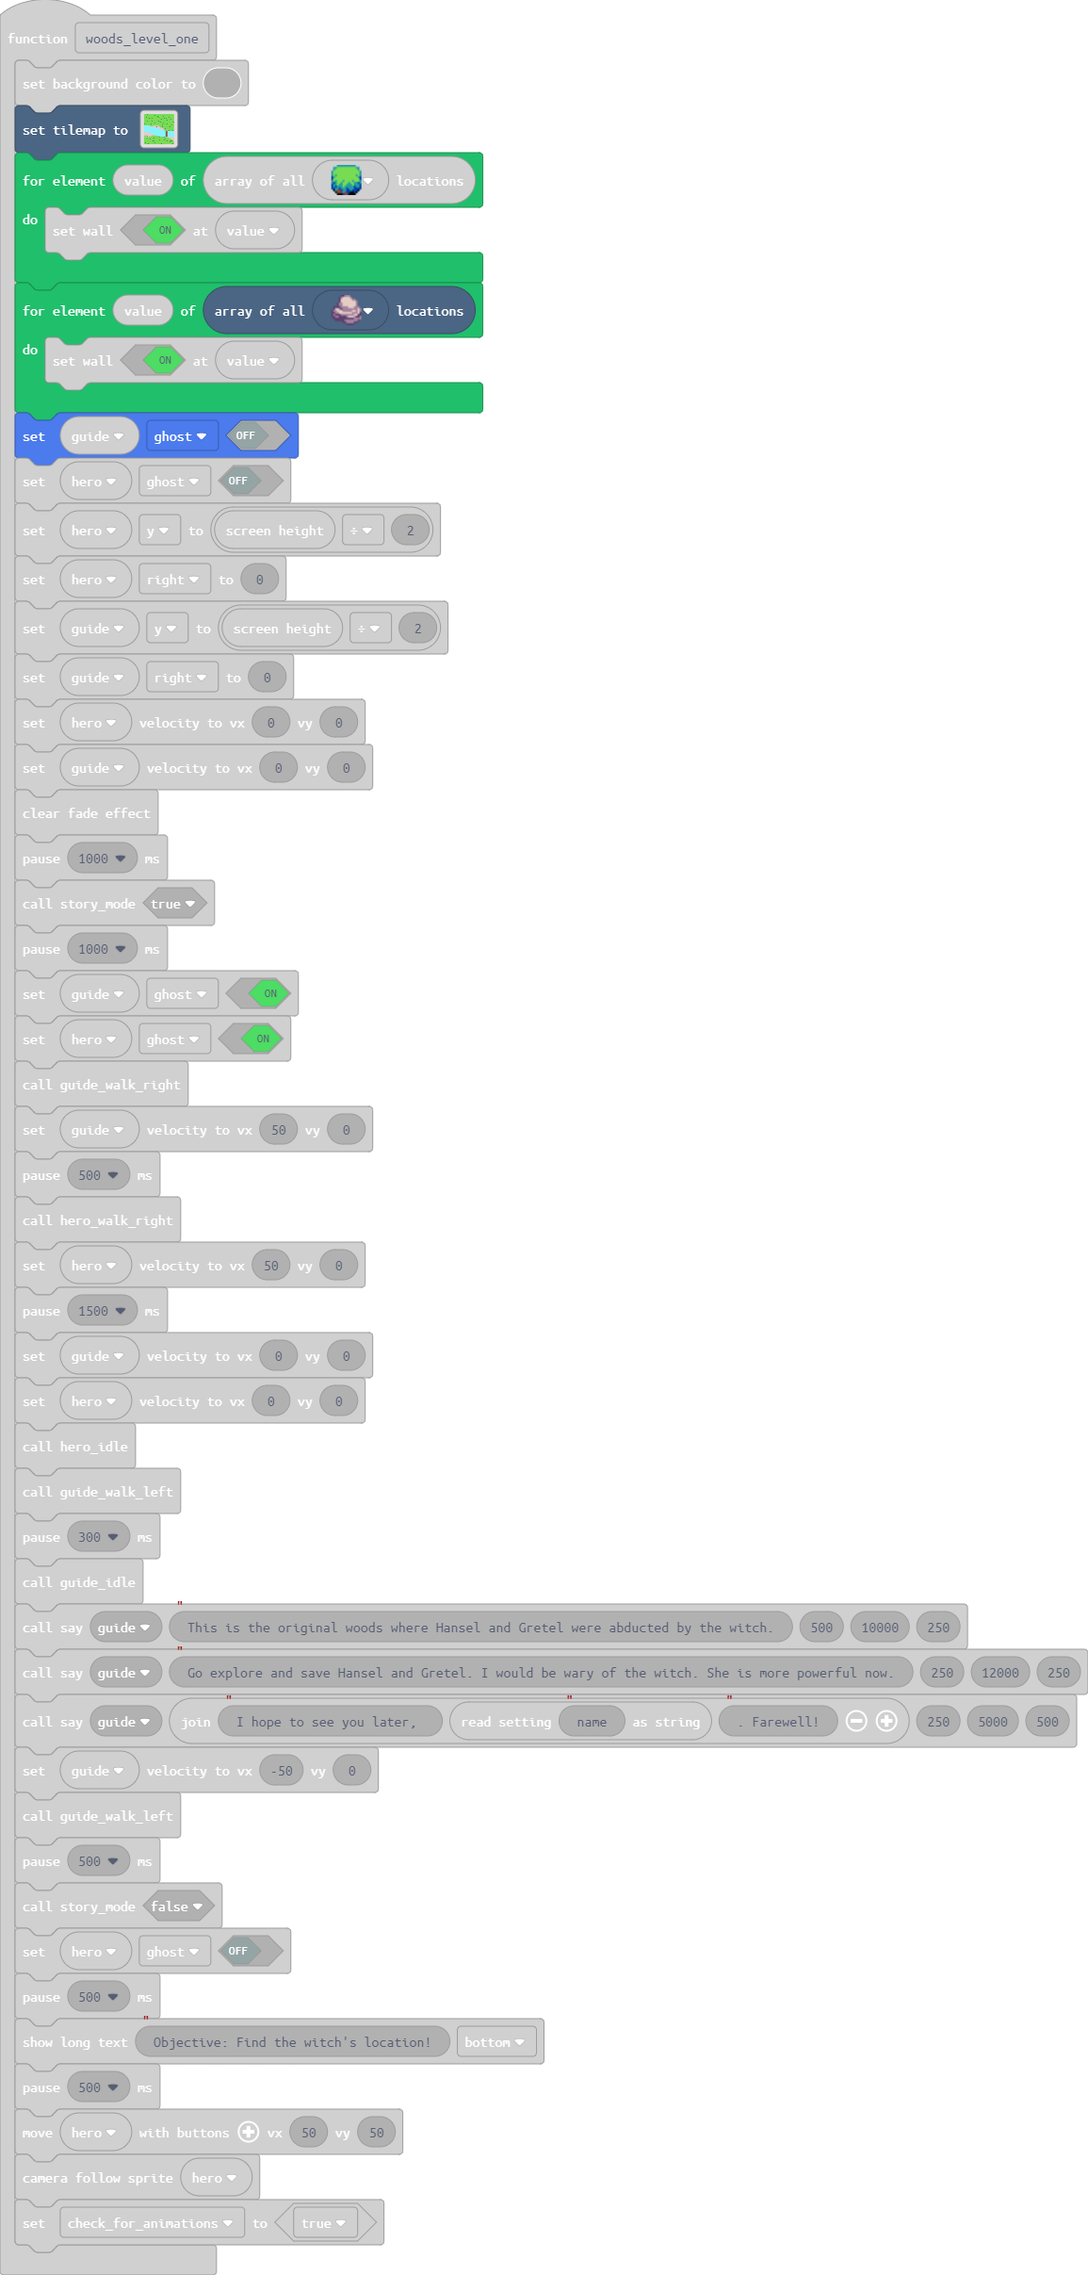
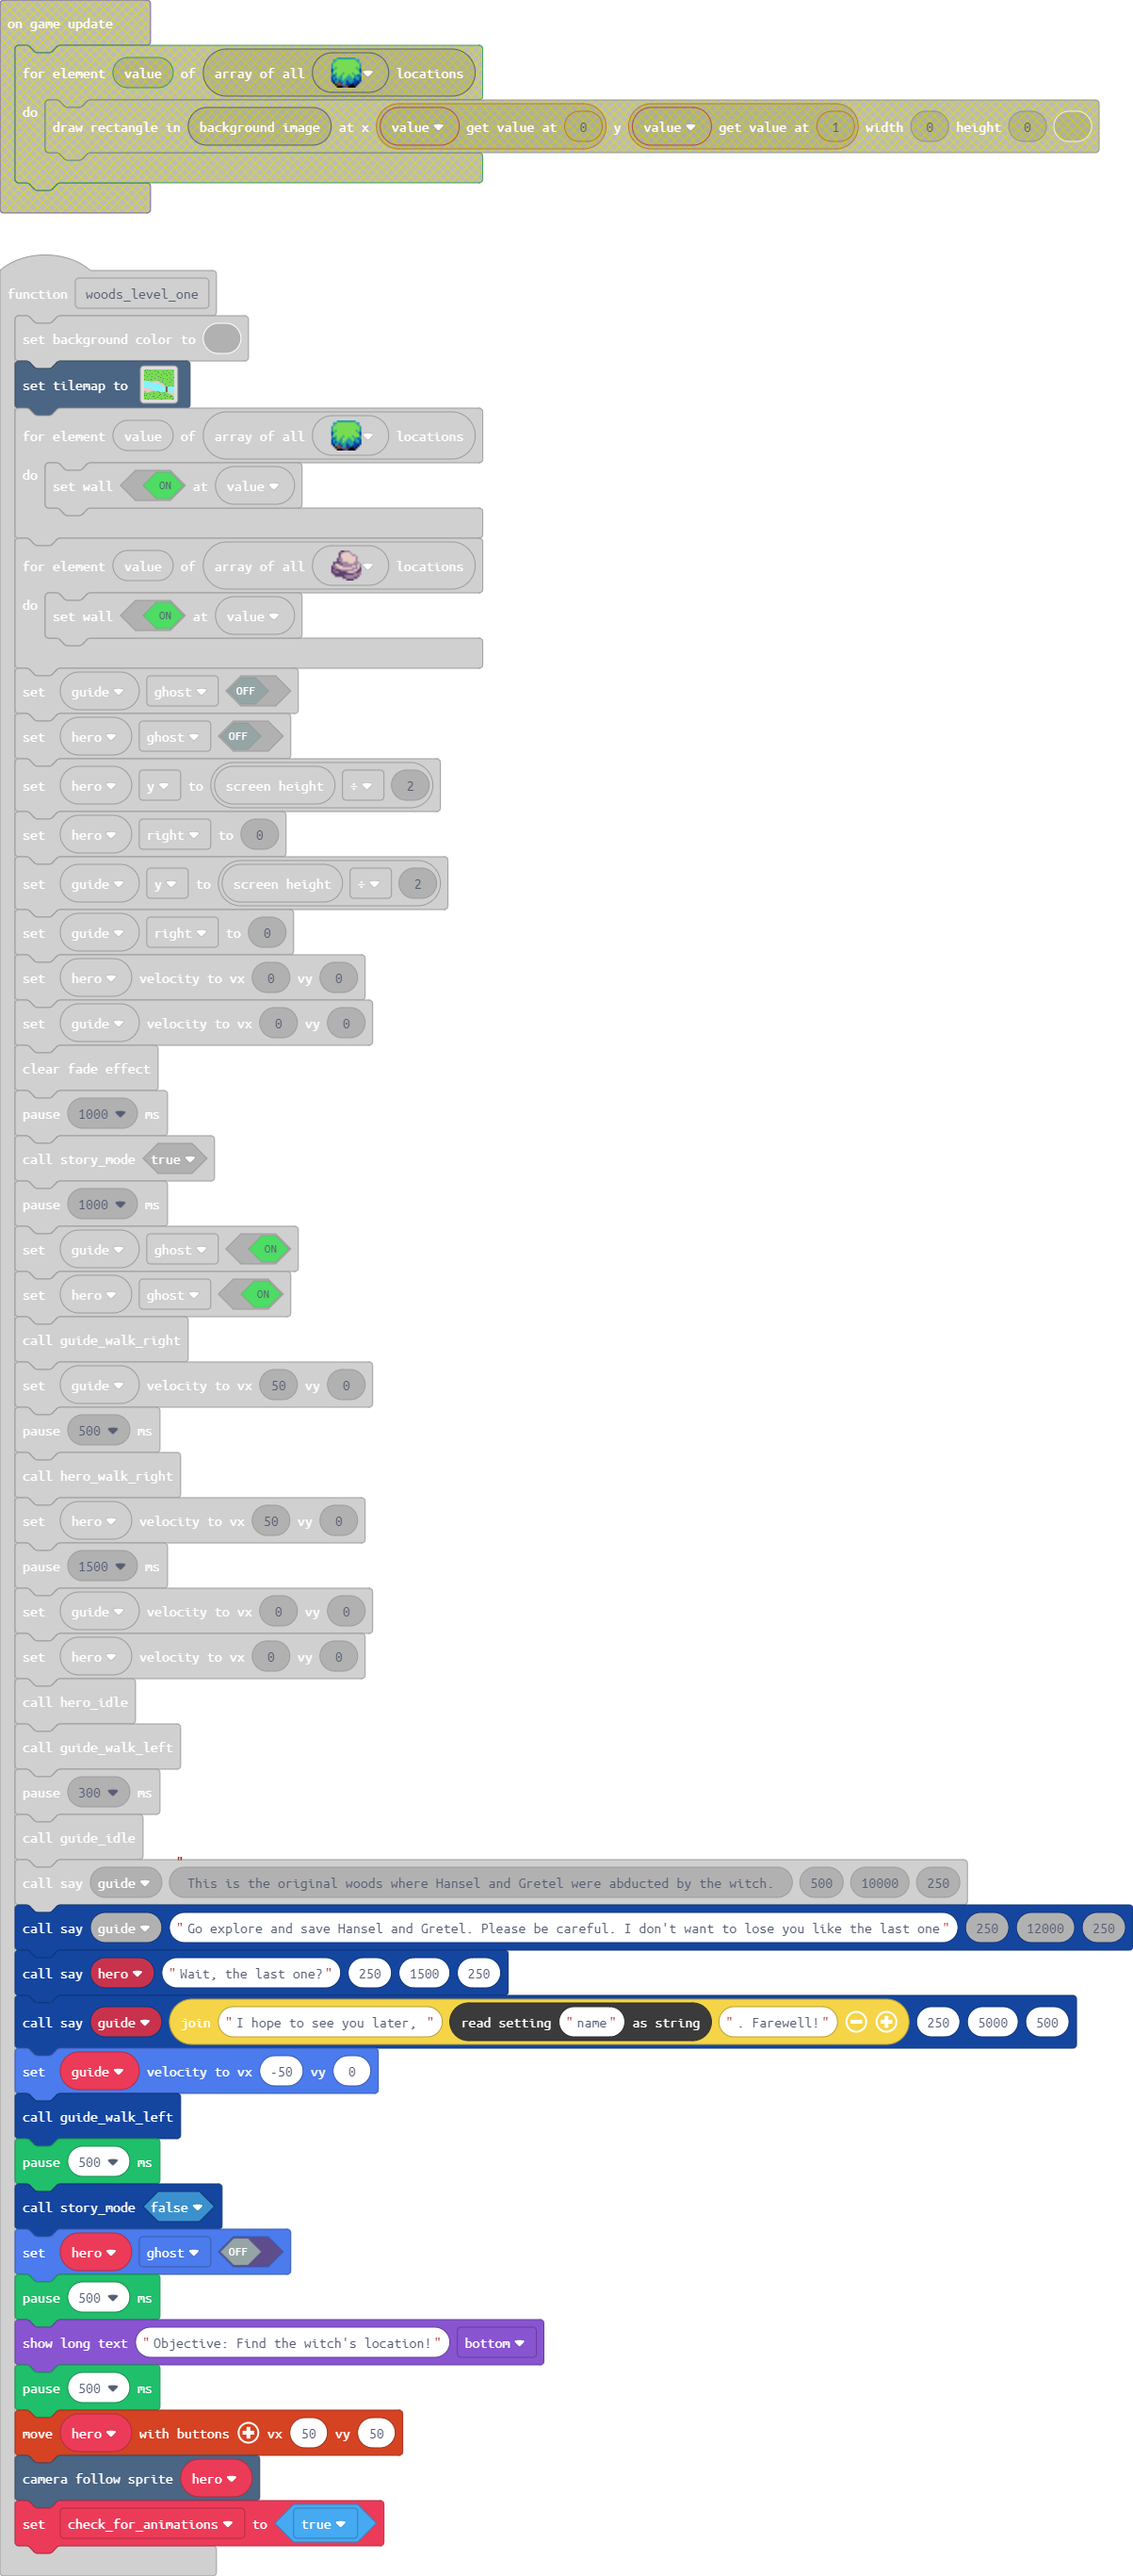
Changed tilemaps of level 1 and added more dialouge.

Changed region(s): [[0.0, 0.0, 1.0, 1.0]]

diff --git a/main.ts b/main.ts
@@ -577,7 +577,7 @@ controller.right.onEvent(ControllerButtonEvent.Released, function () {
 function woods_level_one () {
     scene.setBackgroundColor(7)
     tiles.setTilemap(tiles.createTilemap(
[2 lines of base64/hex data omitted]
             img`
 . . . . . . . . . . . . . . . . . . . . . . . . . . . . . . . . 
 . . . . . . . . . . . . . . . . . . . . . . . . . . . . . . . . 
@@ -648,7 +648,8 @@ function woods_level_one () {
     pause(300)
     guide_idle()
     say(guide, "This is the original woods where Hansel and Gretel were abducted by the witch.", 500, 10000, 250)
-    say(guide, "Go explore and save Hansel and Gretel. I would be wary of the witch. She is more powerful now.", 250, 12000, 250)
+    say(guide, "Go explore and save Hansel and Gretel. Please be careful. I don't want to lose you like the last one", 250, 12000, 250)
+    say(hero, "Wait, the last one?", 250, 1500, 250)
     say(guide, "I hope to see you later, " + blockSettings.readString("name") + ". Farewell!", 250, 5000, 500)
     guide.setVelocity(-50, 0)
     guide_walk_left()
@@ -1139,8 +1140,3 @@ if (false) {
 } else {
     woods_level_one()
 }
-game.onUpdate(function () {
-    for (let value of tiles.getTilesByType(sprites.builtin.forestTiles0)) {
-        scene.backgroundImage().drawRect(value[0], value[1], 0, 0, 0)
-    }
-})
